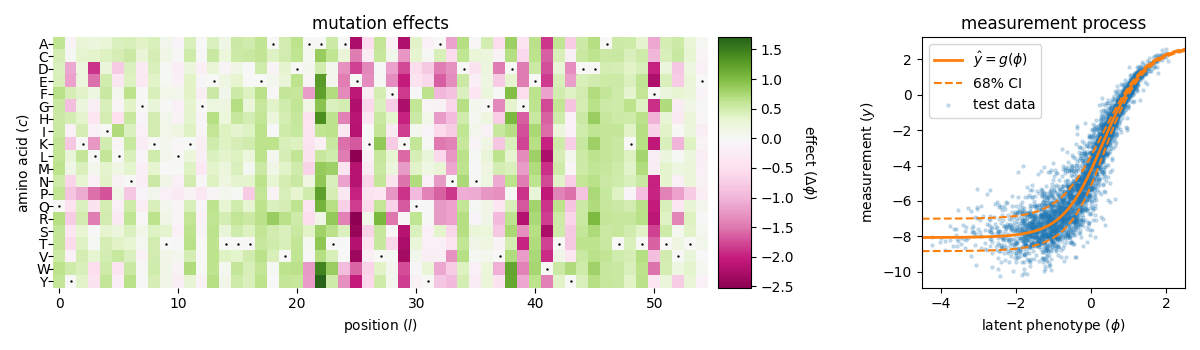
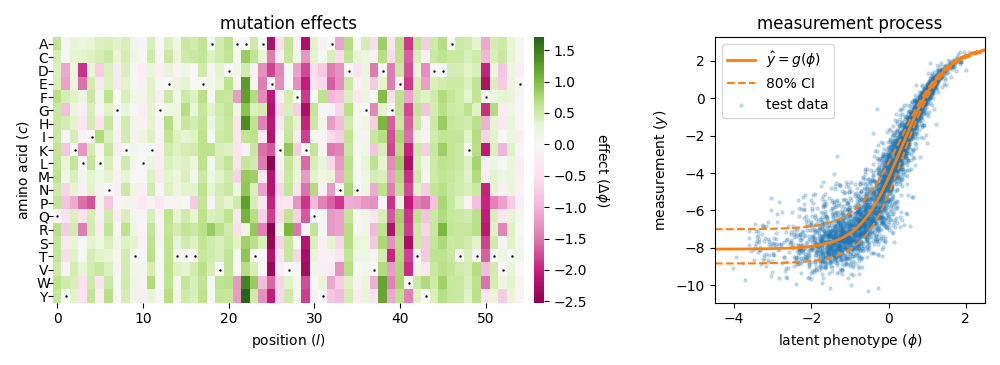
prettied up gb1_ge_additive.png

diff --git a/mavenn/examples/demos/gb1_ge_evaluation.py b/mavenn/examples/demos/gb1_ge_evaluation.py
@@ -56,30 +56,31 @@ yhat_grid = model.phi_to_yhat(phi_grid)
 yqs_grid = model.yhat_to_yq(yhat_grid, q=[.16,.84])
 
 # Create two panels
-fig = plt.figure(figsize=[12,  3.5])
-gs = fig.add_gridspec(1, 3)
-
+fig = plt.figure(figsize=[10,  3.65])
+gs = fig.add_gridspec(1, 5)
 
 # Left panel: draw heatmap illustrating 1pt mutation effects
-ax = fig.add_subplot(gs[:2])
+ax = fig.add_subplot(gs[:3])
 ax, cb = mavenn.heatmap(theta_dict['theta_lc'],
                         alphabet=theta_dict['alphabet'],
                         seq=gb1_seq,
                         cmap='PiYG',
                         ccenter=0,
-                        ax=ax)
+                        ax=ax,
+                        cmap_size='2%')
 ax.set_xlabel('position ($l$)')
 ax.set_ylabel('amino acid ($c$)')
-cb.set_label('effect ($\Delta\phi$)', rotation=-90, va="bottom")
 ax.set_title('mutation effects')
+cb.set_label('effect ($\Delta\phi$)', rotation=-90, va="bottom")
+cb.outline.set_visible(False)
 
 # Right panel: illustrate measurement process with GE curve
-ax = fig.add_subplot(gs[2])
+ax = fig.add_subplot(gs[3:])
 ax.scatter(phi, y, color='C0', s=5, alpha=.2, label='test data')
 ax.plot(phi_grid, yhat_grid, linewidth=2, color='C1',
         label='$\hat{y} = g(\phi)$')
 ax.plot(phi_grid, yqs_grid[:, 0], linestyle='--', color='C1',
-        label='68% CI')
+        label='80% CI')
 ax.plot(phi_grid, yqs_grid[:, 1], linestyle='--', color='C1')
 ax.set_xlim(phi_lim)
 ax.set_xlabel('latent phenotype ($\phi$)')
